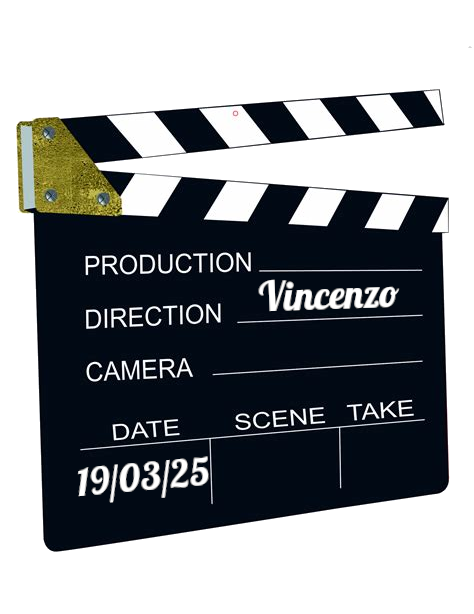
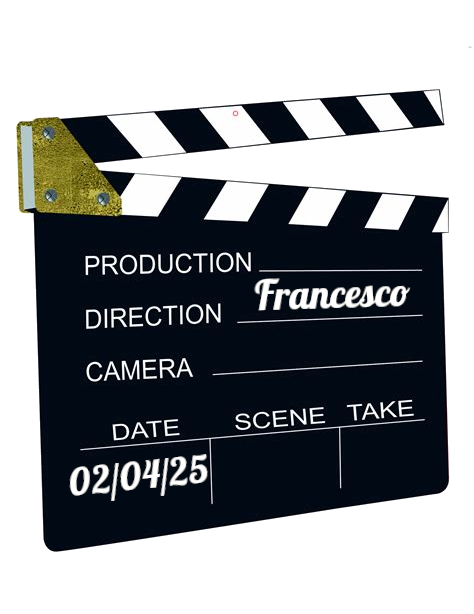
Il caso Belle Steiner

Changed region(s): [[0.5316, 0.4332, 0.8565, 0.5261], [0.1477, 0.7427, 0.443, 0.8046]]

diff --git a/index.html b/index.html
@@ -38,12 +38,12 @@
 
 <br /><br /><hr width="90%"><hr width="90%"><br /><br />
 
-<!--
-<h1>Mercoled&igrave; 19 marzo 2025</h1>
+<h1>Mercoled&igrave; 2 aprile 2025</h1>
 <h2>Alle 20:30 in Via Nizza, 72</h2>
 <img src="img/ciak.png" class="locandina"/>
-<h2>Selezionatore: <i>Vincenzo</i></h2>
--->
+<h2>Selezionatore: <i>Francesco</i></h2>
+
+<br /><br /><hr width="90%"><hr width="90%"><br /><br />
 
 <h1>Marted&igrave; 25 marzo 2025</h1>
 <p class="mtitle">
@@ -52,7 +52,7 @@
 <img src="https://image.tmdb.org/t/p/w500/5YITitG67kcHNUDJdP5XodlkTlm.jpg" class="locandina"/>
 <h2><i>In trasferta al <a href="https://mignon.multisalagreenwichroma.com/" target="_blank">Cinema Mignon</a></i></h2>
 
-<br /><br /><hr width="90%"><hr width="90%"><br /><br />
+<br /><br /><hr width="90%"><br /><br />
 
 <h1>Mercoled&igrave; 19 marzo 2025</h1>
 <p class="mtitle">
@@ -62,7 +62,6 @@
 <h2>Selezionatore: <i>Vincenzo</i></h2>
 
 <br /><br /><hr width="90%"><br /><br />
-
 
 <h1>Mercoled&igrave; 12 marzo 2025</h1>
 <p class="mtitle">

diff --git a/movieslist.html b/movieslist.html
@@ -29,6 +29,17 @@ Rassegnamoci, Cineforum a Programma Variabile - Elenco Film
   </thead>
   <tbody>
     <tr>
+      <td>25-Mar-2025</td>
+      <td>Il caso Belle Steiner</td>
+      <td>Jolly</td>
+      <td>-</td>
+      <td>2025</td>
+      <td>Benoît Jacquot</td>
+      <td>100</td>
+      <td>BE; FR</td>
+      <td><a href="https://www.imdb.com/title/tt27834531" target="_blank">https://www.imdb.com/title/tt27834531</a></td>
+    </tr>
+    <tr>
       <td>19-Mar-2025</td>
       <td>Il male non esiste</td>
       <td>Vincenzo</td>
